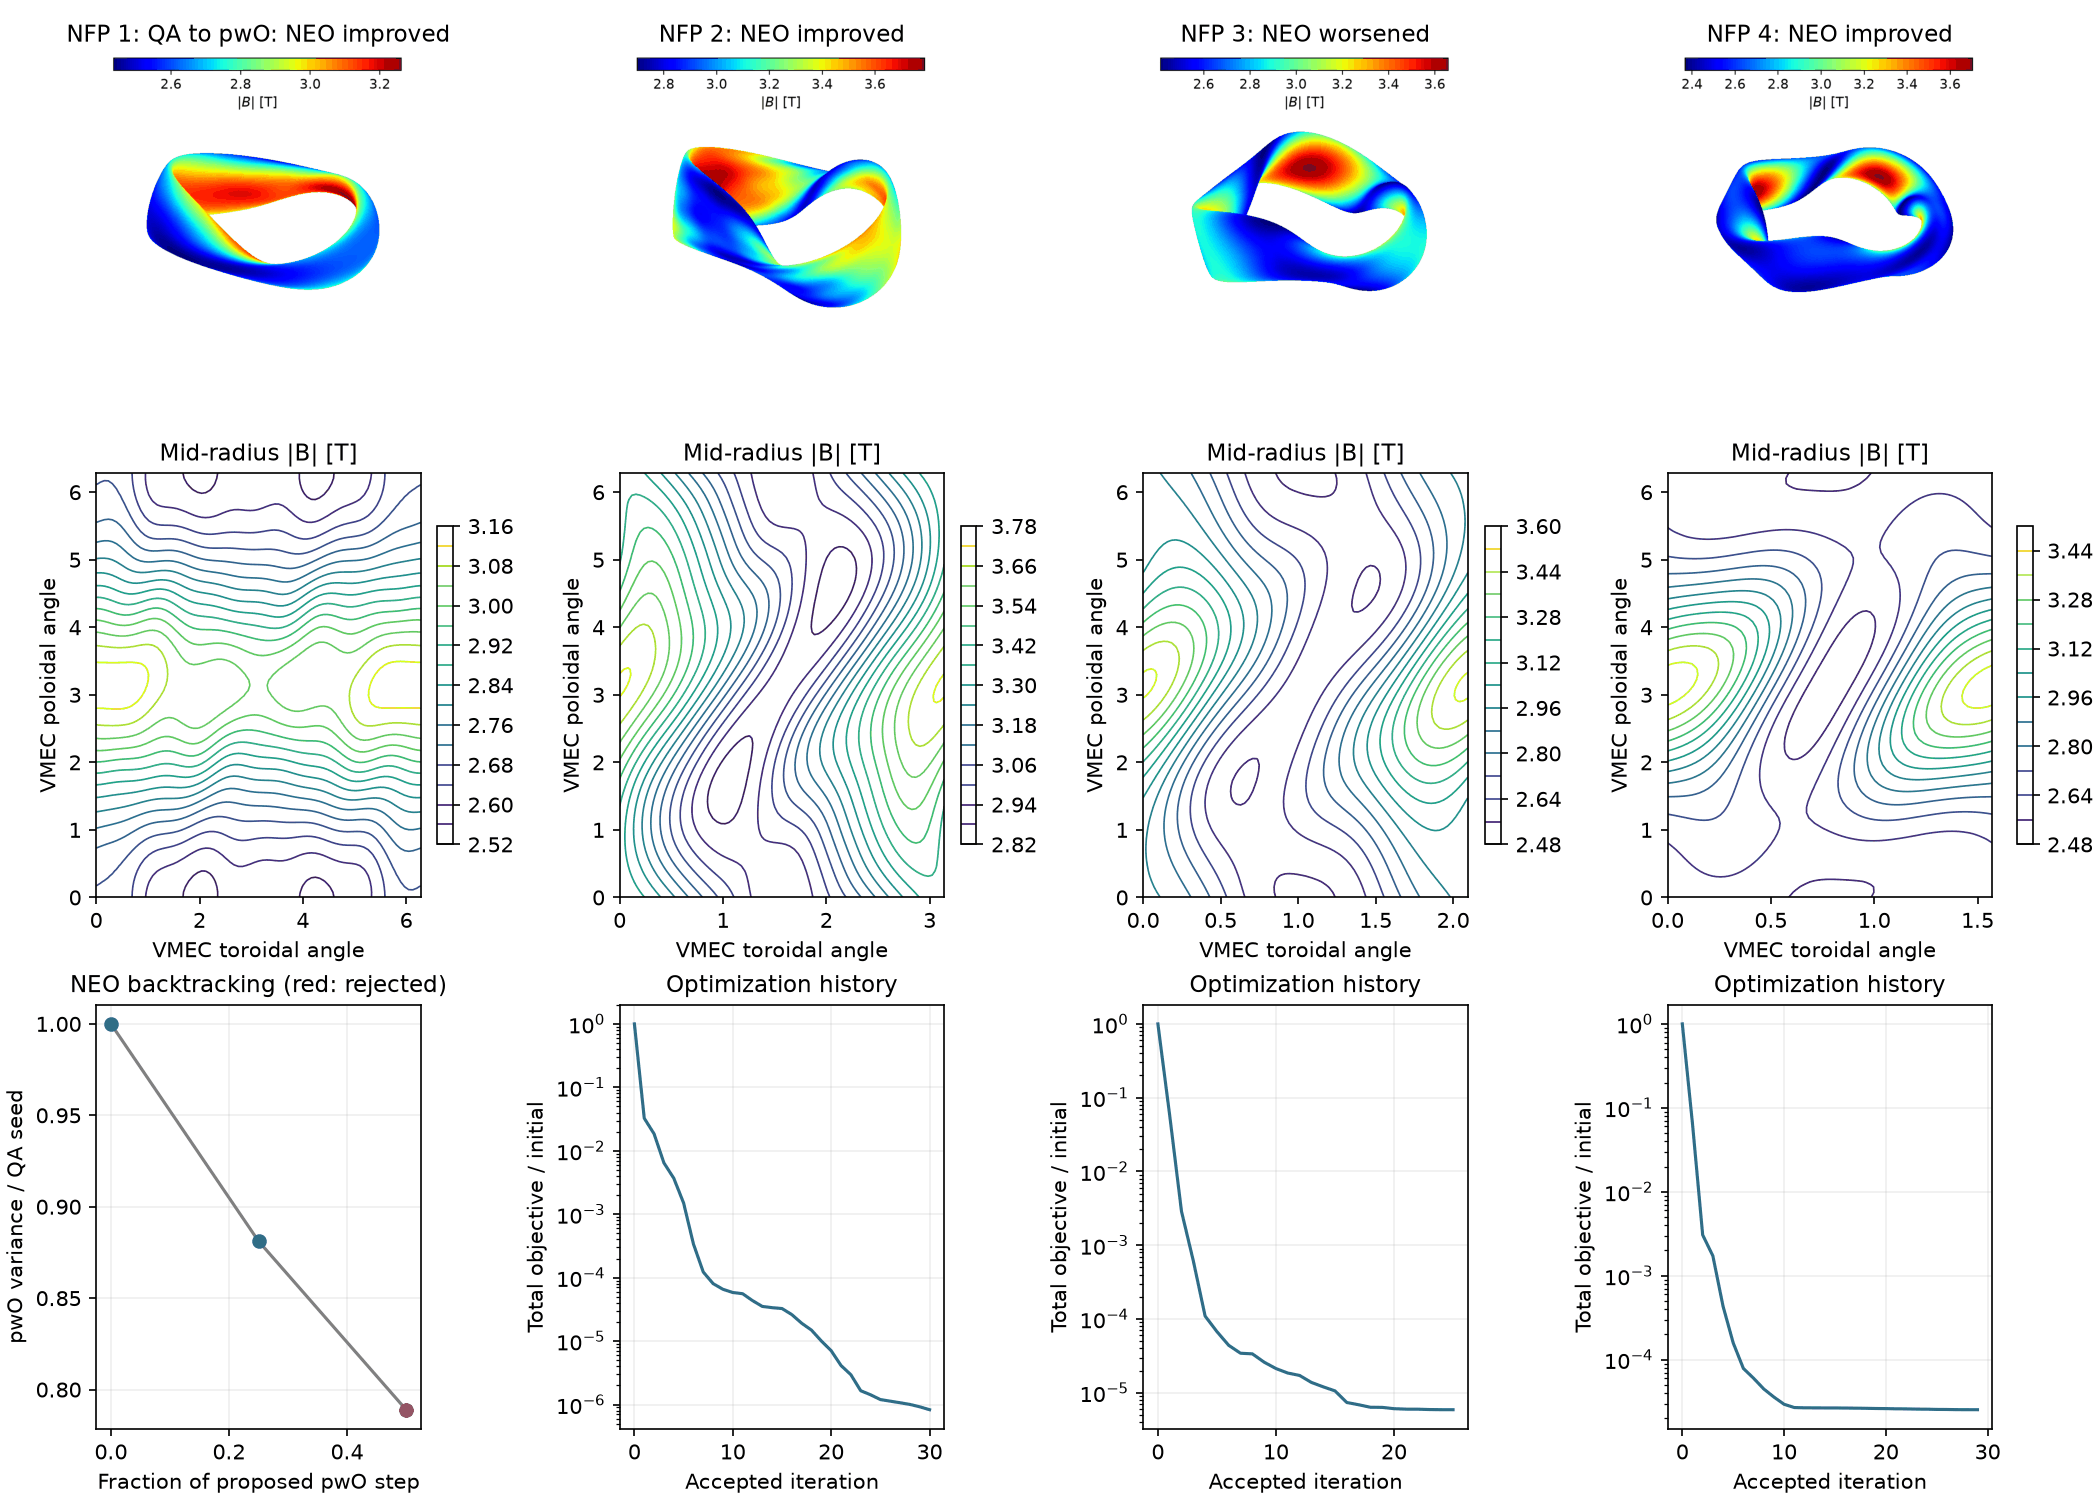
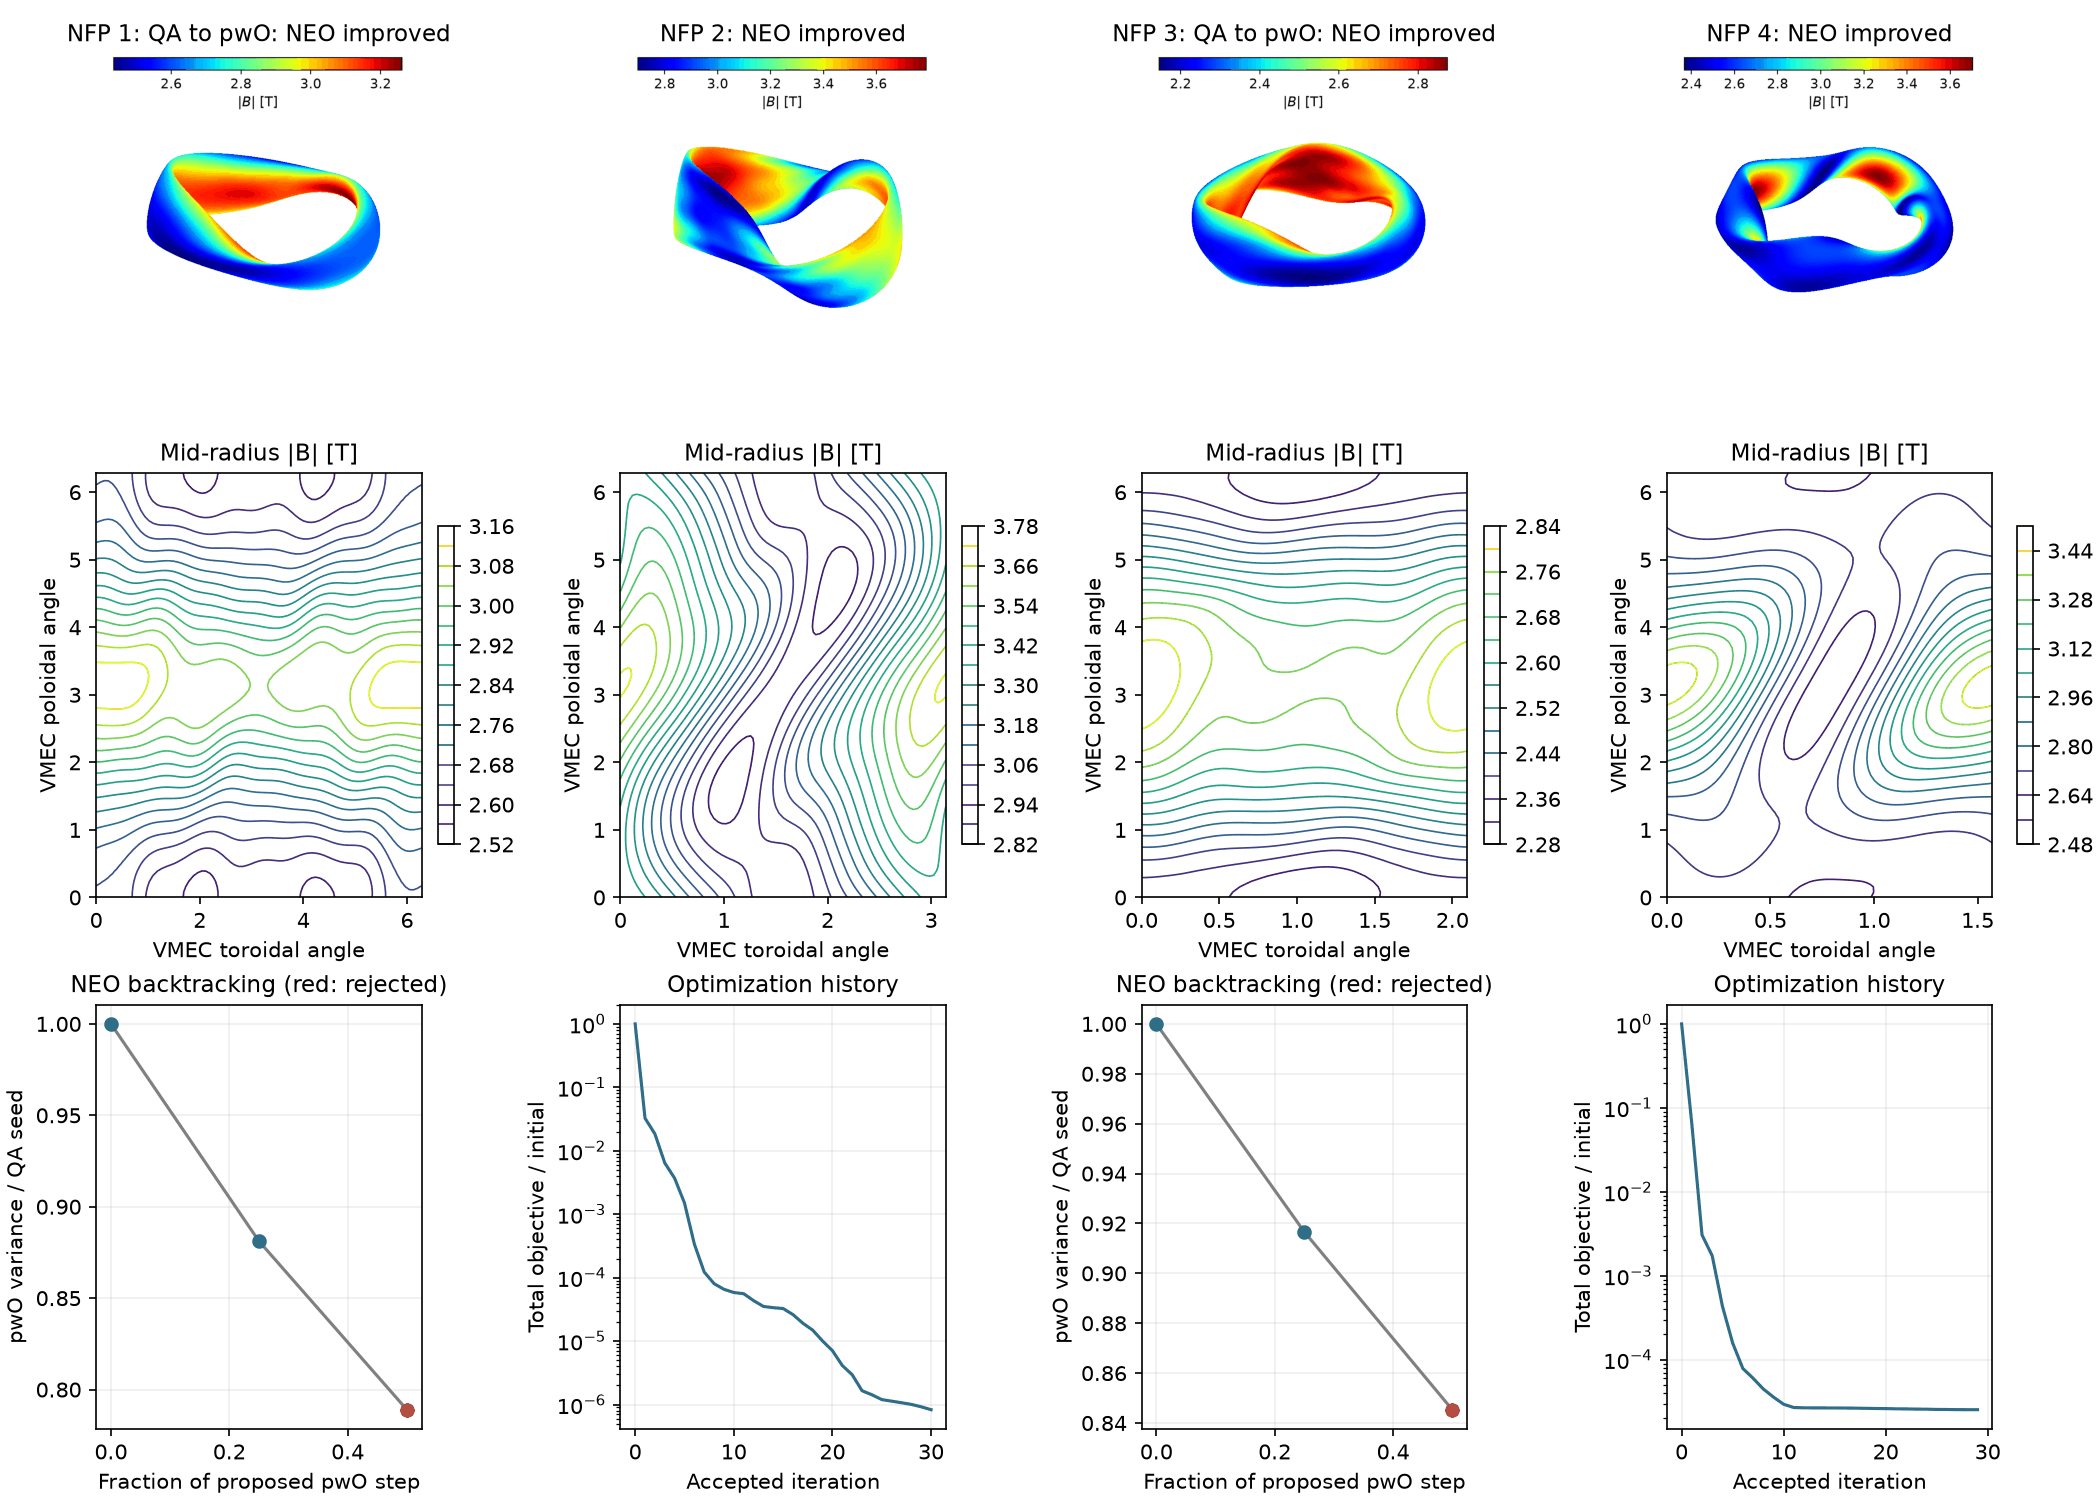
Add refined one-period transport and alpha results

diff --git a/docs/_static/figures/sources/make_low_transport_figure.py b/docs/_static/figures/sources/make_low_transport_figure.py
@@ -138,14 +138,15 @@ def comparisons(root):
     from scipy.io import netcdf_file
 
     fig, axes = plt.subplots(3, 4, figsize=(14, 10), dpi=150, layout="constrained")
-    statuses = ("QA to pwO: NEO improved", "NEO improved", "NEO worsened", "NEO improved")
+    statuses = ("QA to pwO: NEO improved", "NEO improved", "QA to pwO: NEO improved", "NEO improved")
     theta, phi = np.meshgrid(np.linspace(0, 2*np.pi, 81), np.linspace(0, 2*np.pi, 81), indexing="ij")
     for col, nfp in enumerate(range(1, 5)):
         folder = root.parent / "mapped" / f"mirror-nfp{nfp}" / "low_transport"
-        if nfp == 1:
-            folder = root.parent / "mapped/nfp1-qa2-full-20261031/backtrack"
+        if nfp in (1, 3):
+            folder = root.parent / "mapped" / {1: "nfp1-qa2-full-20261031",
+                3: "qa3-pwo-warm-polish-20261031"}[nfp] / "backtrack"
         record = json.loads((folder / "summary.json").read_text())
-        selected = nfp == 1 or "selected_evaluation" in record
+        selected = nfp in (1, 3) or "selected_evaluation" in record
         stem = "trial" if selected else "terminal"
         picture = folder / (f"{stem}_boundary3d.png" if selected else f"terminal/{stem}_boundary3d.png")
         axes[0, col].imshow(plt.imread(picture)); axes[0, col].axis("off")
@@ -159,7 +160,7 @@ def comparisons(root):
         axes[1, col].set(xlabel="VMEC toroidal angle", ylabel="VMEC poloidal angle",
                          title="Mid-radius |B| [T]")
         fig.colorbar(contour, ax=axes[1, col], shrink=.75)
-        if nfp == 1:
+        if nfp in (1, 3):
             points = sorted([(0., 1., True)]+[(r["alpha"], r["physics"]["raw"]/record["initial_pwO"],
                            r["accepted"]) for r in record["trials"]])
             axes[2, col].plot([r[0] for r in points], [r[1] for r in points], color="gray")
@@ -176,18 +177,24 @@ def comparisons(root):
     save(fig, OUT.with_name("readme_low_transport_nfp.webp"))
 
     data = json.loads((root / "summary.json").read_text())["cases"]
-    if "pwo1" not in data:
-        folder = root.parent / "mapped/nfp1-qa2-full-20261031/backtrack"
+    for name, path in (("pwo1", "nfp1-qa2-full-20261031"),
+                       ("pwo3", "qa3-pwo-warm-polish-20261031")):
+        if name in data:
+            continue
+        folder = root.parent / "mapped" / path / "backtrack"
         row = json.loads((folder / "summary.json").read_text())
         with netcdf_file(folder / "wout_trial.nc", mmap=False) as f:
             iota = f.variables["iotaf"].data.copy().tolist()
-        data["pwo1"] = dict(Q=row["accepted"]["Q"], actual_s=[.25, 16.5/34, .75],
-                           refined_equilibrium=dict(full_signed_iota=iota), coarse=True)
+        data[name] = dict(Q=row["accepted"]["Q"], actual_s=[.25, 16.5/34, .75],
+                          refined_equilibrium=dict(full_signed_iota=iota), coarse=True)
     fig, axes = plt.subplots(3, 1, figsize=(9, 11), dpi=150)
     fig.subplots_adjust(left=.12, right=.98, top=.95, bottom=.20, hspace=.34)
+    axes[2].set_prop_cycle(color=["#566a79", "#99a3af", "#2c7fb8", "#e34a33",
+                                   "#7b3294", "#8c564b", "#c78a00", "#b85b20", "#007d63",
+                                   "#afbecf", "#269fd0", "#242424"])
     handles, labels, missing = [], [], []
-    for name, label in (("seed4", "Seed4"), ("QA", "QA4"), ("QH", "QH4"),
-            ("QP", "QP4"), ("QI", "QI4"), ("pwo1", "pwO1"), ("mapped4", "pwO4"),
+    for name, label in (("seed1", "Seed1"), ("seed4", "Seed4"), ("QA", "QA4"), ("QH", "QH4"),
+            ("QP", "QP4"), ("QI", "QI4"), ("pwo1", "pwO1"), ("pwo3", "pwO3"), ("mapped4", "pwO4"),
             ("seed2", "Seed2"), ("QA_nfp2", "QA2"), ("mapped2", "pwO2")):
         row = data.get(name, {})
         if row.get("coarse"):

diff --git a/README.md b/README.md
@@ -298,18 +298,19 @@ volume-RMS field of 6 T and minor radius 1.7 m. Its β≈0.5% continuation lower
 
 | Field periods | Aspect ratio | Minimum ι | Transport result |
 |---|---:|---:|---|
-| 1 | 6.007 | 0.420 | Coarse mean Q −65.6%; QA precursor |
+| 1 | 6.007 | 0.421 | Refined mean Q −67.0%; QA precursor |
 | 2 | 6.003 | 0.494 | Refined mean Q −52.6% |
-| 3 | 6.001 | 0.442 | Coarse mean Q +191%; rejected |
+| 3 | 6.006 | 0.420 | Coarse mean Q −86.8%; QA precursor |
 | 4 | 6.001 | 0.438 | Refined mean Q −27.5% |
 
 The one-period construction uses a QA precursor, physical toroidal harmonics through n=4,
-and a NEO-screened pwO step. The direct mode-2 start still fails; independent refinement and
-particle checks are pending.
+and a NEO-screened pwO step. Its paired alpha losses fall from 100% to 30.0%.
+The direct mode-2 start still fails. A similar QA-to-pwO step gives the
+three-period result; its refinement and particle checks are pending.
 
 ![Effective ripple, alpha losses and iota profiles compared with QA, QH, QP and the initial seeds; unfinished checks are marked](docs/_static/figures/readme_low_transport_comparison.webp)
 
-QH4 and QA2 have lower effective ripple. The pwO two-period field loses fewer alphas
+QH4 and QA2 have lower effective ripple than pwO2. The two-period field loses fewer alphas
 than QA2 (6.73% versus 24.12%); its difference from QH4 (7.97%) is unresolved within
 sampling uncertainty. All candidates target the same aspect ratio and iota floor;
 actual transforms differ, and only the pwO runs impose the mirror ceiling.

diff --git a/docs/explanation/confinement.rst b/docs/explanation/confinement.rst
@@ -280,7 +280,8 @@ These are measurements of the combined objective, not a bound from mapped
 variance to Q or losses. QA preconditioning does not remove this limitation:
 five NFP3 pwO steps lowered the variance by 26%, but mean Q rose from
 3.41e-6 to 2.97e-3, above the near-circle value 5.02e-4. Independent
-transport checks remain essential. The README shows the retained
+transport checks remain essential. A NEO-screened quarter step instead
+retains an 86.8% mean-Q reduction from the NFP3 near-circle seed. The README shows the retained
 boundary, unfilled Boozer contours and measured loss curves.
 
 Bounce action

diff --git a/docs/reference/optimization.rst b/docs/reference/optimization.rst
@@ -688,6 +688,8 @@ perturbation breaks the two-period symmetry. Five pwO steps supply a
 direction; halving that step until NEO accepts retains a quarter step.
 It reduces pwO variance by 11.9% and mean Q by 65.6% relative to the
 near-circle seed, at A=6.007 and minimum signed iota=0.4198. This
+independent NS103/M7/N7 check finds a 67.0% mean-Q reduction and
+30.0% weighted alpha loss, against 100% in its near-circle seed. The
 construction is not yet automated by changing ``NFP`` in the vacuum example.
 
 Continue the saved vacuum shape to finite pressure with::
